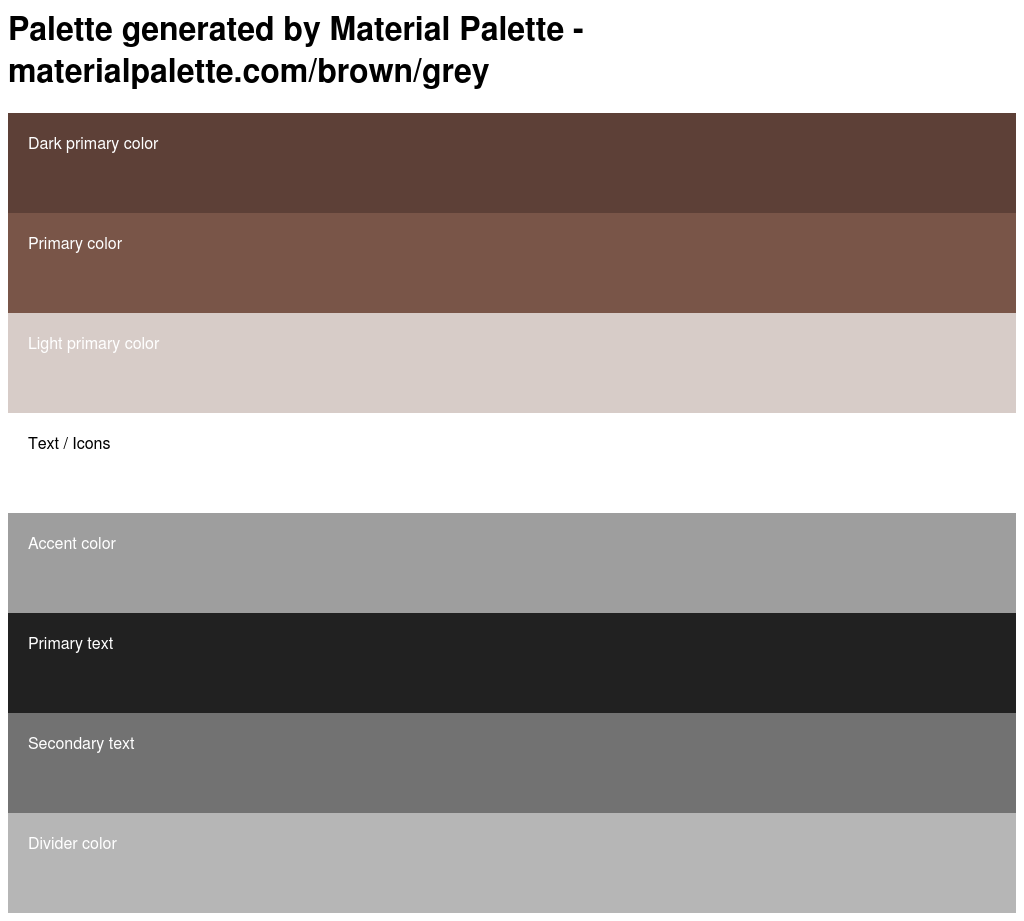
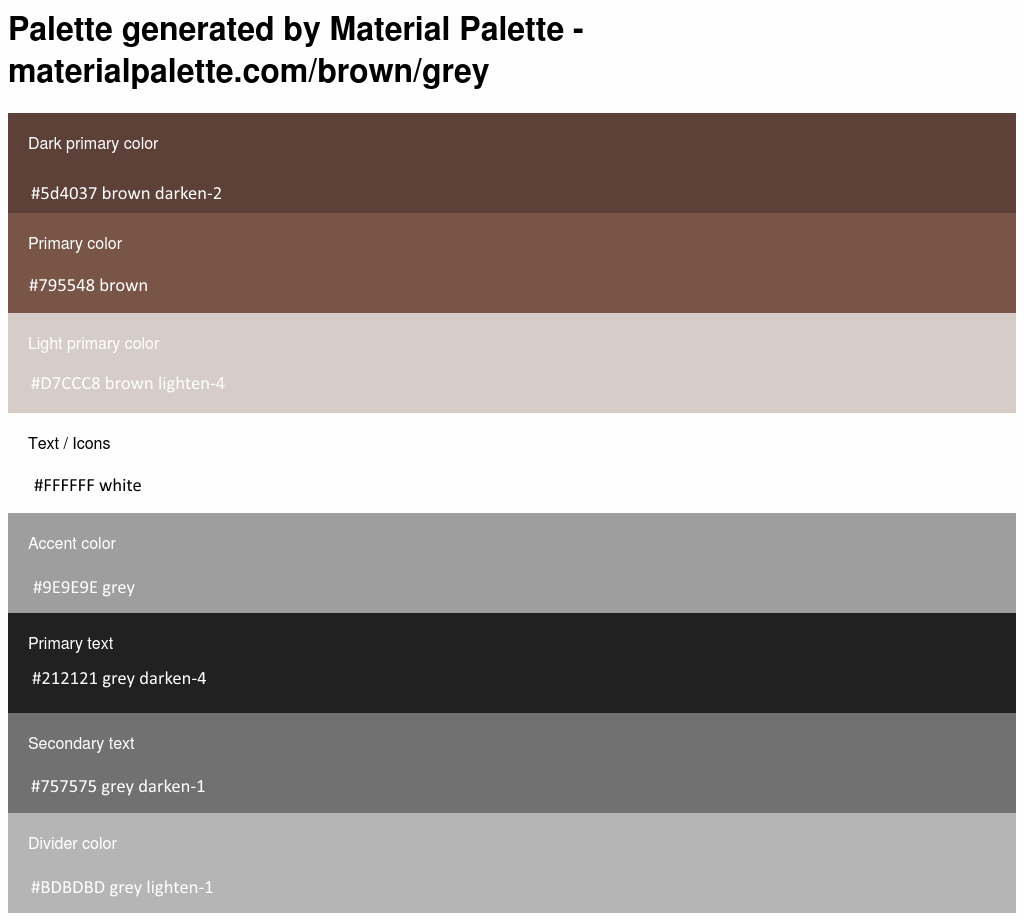
Redesigned the inventory UI to look less like crap. This was done with materialize css. Also refactored the UI component placement and removed the unnecessary listing and details panel from the cigars view.

diff --git a/HumidorClient/src/HumidorClient/wwwroot/views/cigars.component.html b/HumidorClient/src/HumidorClient/wwwroot/views/cigars.component.html
@@ -1,0 +1,28 @@
+<div class="row">
+    <div class="col s4">
+        <div class="error" *ngIf="error">{{error}}</div>
+        <button class="grey darken-1 waves-effect waves-light btn" (click)="addCigar()">Add new Cigar</button>
+        <div *ngIf="addingCigar">
+            <cigar-detail (close)="close($event)"></cigar-detail>
+        </div>    
+    </div>
+</div>
+
+<div class="divider grey lighten-1"></div>
+
+<div class="row">
+    <div *ngFor="let cigar of cigars" class="col s4">
+        <div class="card small brown lighten-1 z-depth-2">
+            <div class="card-content white-text">
+                <span class="card-title activator">{{cigar.name}}</span>
+            </div>
+            <div class="card-reveal">
+                <span class="card-title">Name: {{cigar.name}}</span>
+                <p><bold>ID: {{cigar.id}}</bold></p>
+                <p class="grey-text text-darken-1">Testestsetsettsetsetset</p>
+                <button class="grey waves-effect waves-light btn" (click)="goToDetail(cigar)">Details</button>
+                <button class="grey waves-effect waves-light btn" (click)="deleteCigar(cigar, $event)">Delete</button>
+            </div>
+        </div>
+    </div>
+</div>

diff --git a/HumidorClient/src/HumidorClient/scripts/components/cigars.component.ts b/HumidorClient/src/HumidorClient/scripts/components/cigars.component.ts
@@ -7,15 +7,13 @@ import { CigarDetailComponent } from "./cigar-detail.component";
 
 @Component({
     selector: "my-cigars",
-    templateUrl: "views/cigars-component.html",
+    templateUrl: "views/cigars.component.html",
     directives: [ CigarDetailComponent ]
 })
 
 export class CigarsComponent implements OnInit {
-
-    title = "The contents of your Humidor";
+    
     cigars: Cigar[];
-    selectedCigar: Cigar;
     addingCigar: boolean = false;
     error: any;
 
@@ -32,7 +30,6 @@ export class CigarsComponent implements OnInit {
 
     addCigar():void {
         this.addingCigar = true;
-        this.selectedCigar = null;
     }
 
     deleteCigar(deletedCigar: Cigar, event: any): void {
@@ -51,13 +48,9 @@ export class CigarsComponent implements OnInit {
             this.getCigars();
         }
     }
-
-    onSelect(cigar: Cigar): void {
-        this.addingCigar = false;
-        this.selectedCigar = cigar;
-    }
-
-    goToDetail(): void {
-        this.router.navigate(["/details", this.selectedCigar.id]);
+    
+    goToDetail(cigar: Cigar): void {
+        const link: any = ["/details", cigar.id];
+        this.router.navigate(link);
     }
 }

diff --git a/HumidorClient/src/HumidorClient/wwwroot/views/cigar-detail.component.html b/HumidorClient/src/HumidorClient/wwwroot/views/cigar-detail.component.html
@@ -1,11 +1,10 @@
 <div id="cigar-details" *ngIf="cigar">
-    <h2>{{cigar.name}} details!</h2>
     <div><label>id:</label>{{cigar.id}}</div>
     <div><label>name:</label>{{cigar.name}}</div>
     <div>
         <label>Name: </label>
         <input [(ngModel)]="cigar.name" placeholder="Name"/>
     </div>
-    <button (click)="goBack()">Back</button>
-    <button (click)="save()">Save</button>
+    <button class="grey waves-effect waves-light btn" (click)="goBack()">Back</button>
+    <button class="grey waves-effect waves-light btn" (click)="save()">Save</button>
 </div>

diff --git a/HumidorClient/src/HumidorClient/Styles/Static/_main.scss b/HumidorClient/src/HumidorClient/Styles/Static/_main.scss
@@ -1,0 +1,34 @@
+/// <reference path="../_variables.scss" />
+
+body {
+	background-color: $main-background-color;
+    padding-top: 0 !important;
+}
+
+main,footer,header {
+    @media screen and (min-width: 992px) {
+        padding-left: $side-nav-width;
+    }
+}
+
+div.container {
+    width: 90%;
+}
+
+ul.side-nav {
+    width: $side-nav-width;
+}
+
+ul.side-nav li > a.logo {
+    text-align: center;
+    height: $logo-height;
+}
+
+ul.side-nav li {
+
+    a {
+        height: $side-nav-link-height;
+        line-height: $side-nav-link-height;
+    }
+
+}

diff --git a/HumidorClient/src/HumidorClient/Styles/_variables.scss b/HumidorClient/src/HumidorClient/Styles/_variables.scss
@@ -1,0 +1,16 @@
+// Colors 
+$main-background-color: #FCFCFC;
+
+$primary-color-dark:   #5D4037; // brown darken-2
+$primary-color:        #795548; // brown
+$primary-color-light:  #D7CCC8; // brown lighten-4
+$primary-color-text:   #FFFFFF; // white
+$accent-color:         #9E9E9E; // grey
+$primary-text-color:   #212121; // grey darken-4
+$secondary-text-color: #757575; // grey darken-1
+$divider-color:        #B6B6B6; // grey lighten-1
+
+// Sizes
+$logo-height: 128px;
+$side-nav-width: 200px;
+$side-nav-link-height: 44px;

diff --git a/HumidorClient/src/HumidorClient/wwwroot/views/dashboard.component.html b/HumidorClient/src/HumidorClient/wwwroot/views/dashboard.component.html
@@ -1,0 +1,10 @@
+<div class="row">
+    <div class="col s6">
+        <ul class="collection with-header">
+            <li class="collection-header brown lighten-4 grey-text text-darken-4"><h3>Top 5 cigars</h3></li>
+            <li class="collection-item grey-text text-darken-1" *ngFor="let cigar of cigars" (click)="goToDetail(cigar)">
+                {{cigar.name}}<i class="material-icons">mode_edit</i>
+            </li>
+        </ul>
+    </div>
+</div>

diff --git a/HumidorClient/src/HumidorClient/scripts/components/app.component.ts b/HumidorClient/src/HumidorClient/scripts/components/app.component.ts
@@ -6,7 +6,6 @@ import { CigarService } from "../services/cigar.service";
 @Component({
     selector: "my-app",
     template: `
-        <h1>{{title}}</h1>
         <div>
             <a [routerLink]="['/dashboard']">Dashboard</a>
             <a [routerLink]="['/cigars']">Cigars</a>

diff --git a/HumidorClient/src/HumidorClient/scripts/components/dashboard.component.ts b/HumidorClient/src/HumidorClient/scripts/components/dashboard.component.ts
@@ -6,7 +6,7 @@ import { CigarService } from "../services/cigar.service";
 
 @Component({
     selector: "my-dashboard",
-    templateUrl: "views/dashboard-component.html"
+    templateUrl: "views/dashboard.component.html"
 })
 
 export class DashboardComponent implements OnInit {

diff --git a/HumidorClient/src/HumidorClient/Styles/site.scss b/HumidorClient/src/HumidorClient/Styles/site.scss
@@ -1,5 +1,5 @@
-@import "Static/_body-container.scss";
-
+@import "_variables.scss";
+@import "Static/_main.scss";
 @import "Components/_default.scss";
 @import "Components/_inventory.scss";
 @import "Components/_cigar-detail.component.scss";
